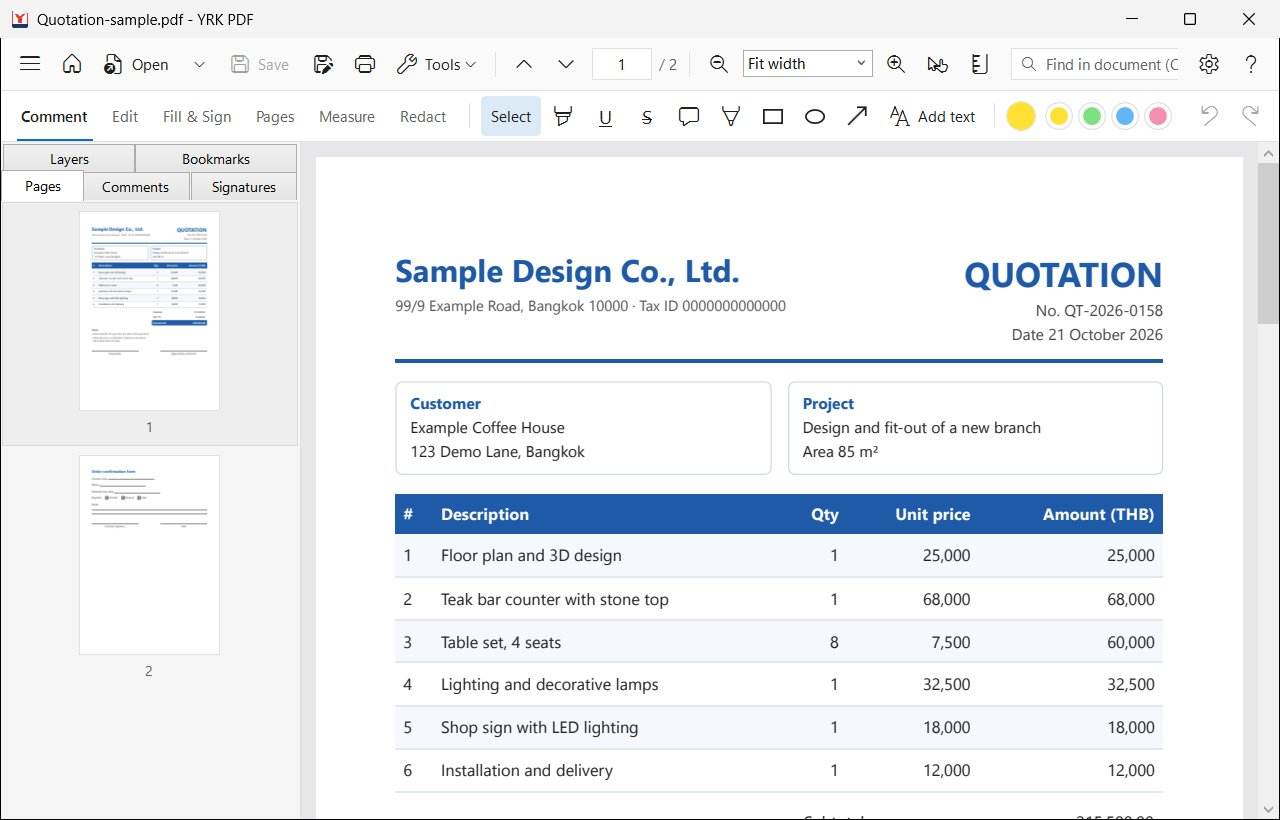
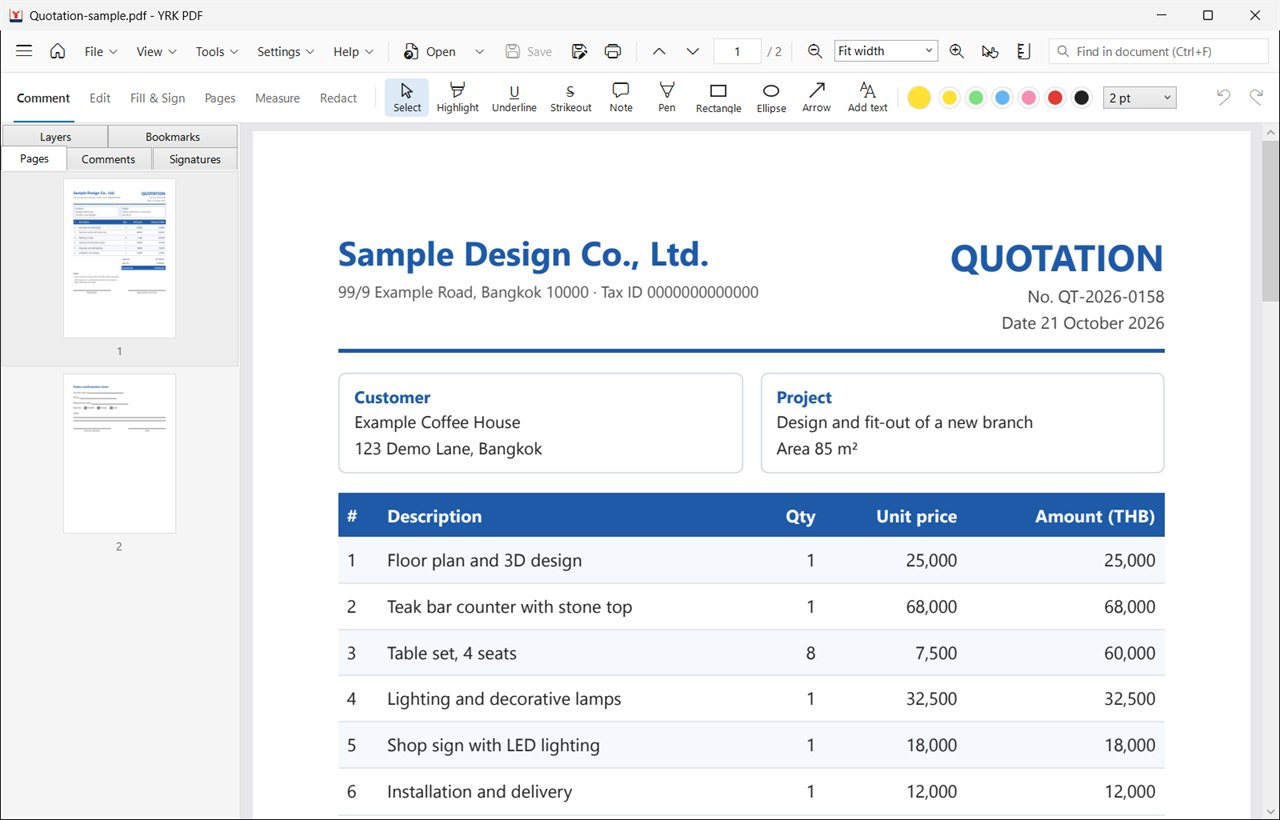
Download page: screenshots of the current version
The main window, the start page and the drawing pictures, in Thai and
English, now show 1.0.9's menu row and named tools. The drawing is a sample
two-storey house plan made for these pictures (no real project), with a
measured room, a length and counted ceiling lights; the drawing card gets a
close-up of it. Badges and descriptions follow the new measurement.

diff --git a/docs/release-repo/site-src/index.html b/docs/release-repo/site-src/index.html
@@ -72,7 +72,7 @@
 
     <div class="float-chip card green c7">
       <span class="ico"><svg aria-hidden="true" width="20" height="20" viewBox="0 0 24 24" fill="none" stroke-width="1.8" stroke-linecap="round" stroke-linejoin="round"><path d="M4 4h16v16H4z"/><path d="M4 12h8V4"/><path d="M12 12v8"/></svg></span>
-      <div class="crop"><img src="{{img:dwg-measure.jpg}}" alt=""><span class="badge">พื้นที่ 25.31 ตร.ม.</span></div>
+      <div class="crop"><img src="{{img:dwg-chip.jpg}}" alt=""><span class="badge">พื้นที่ 16.75 ตร.ม.</span></div>
       <b>ตรวจแบบ .dwg ได้เลย</b><small>วัดระยะ วัดพื้นที่ ไม่ต้องมี AutoCAD</small>
     </div>
     <div class="float-chip green c8"><span class="ico"><svg aria-hidden="true" width="20" height="20" viewBox="0 0 24 24" fill="none" stroke-width="1.8" stroke-linecap="round" stroke-linejoin="round"><path d="m12 3 9 5-9 5-9-5z"/><path d="m3 13 9 5 9-5"/></svg></span>
@@ -126,7 +126,7 @@
 <section class="wrap bento" aria-label="จุดเด่น">
   <figure class="green-box">
     <figcaption><b>เปิดแบบ DWG แล้ววัดได้ทันที</b><span>เปิดปิดเลเยอร์ วัดระยะ วัดพื้นที่ ตามสเกลจริง</span></figcaption>
-    <img src="{{img:dwg-measure.jpg}}" alt="แปลนบ้านจากไฟล์ DWG เปิดในโปรแกรม พร้อมผลวัดระยะและพื้นที่">
+    <img src="{{img:dwg-measure.jpg}}" alt="แปลนบ้านตัวอย่างจากไฟล์ DWG เปิดในโปรแกรม พร้อมผลวัดพื้นที่ วัดระยะ และนับดวงโคม">
   </figure>
   <figure class="orange-box">
     <figcaption><b>“สำเนาถูกต้อง” ในคลิกเดียว</b><span>ไม่ต้องพิมพ์ออกมาเซ็น แล้วสแกนกลับเข้าไปอีก</span></figcaption>

diff --git a/docs/release-repo/site-src/en/index.html b/docs/release-repo/site-src/en/index.html
@@ -71,7 +71,7 @@
 
     <div class="float-chip card green c7">
       <span class="ico"><svg aria-hidden="true" width="20" height="20" viewBox="0 0 24 24" fill="none" stroke-width="1.8" stroke-linecap="round" stroke-linejoin="round"><path d="M4 4h16v16H4z"/><path d="M4 12h8V4"/><path d="M12 12v8"/></svg></span>
-      <div class="crop"><img src="{{img:en/dwg-measure.jpg}}" alt=""><span class="badge">Area 25.31 m²</span></div>
+      <div class="crop"><img src="{{img:en/dwg-chip.jpg}}" alt=""><span class="badge">Area 16.75 m²</span></div>
       <b>Check .dwg drawings</b><small>Measure lengths and areas, no AutoCAD needed</small>
     </div>
     <div class="float-chip green c8"><span class="ico"><svg aria-hidden="true" width="20" height="20" viewBox="0 0 24 24" fill="none" stroke-width="1.8" stroke-linecap="round" stroke-linejoin="round"><path d="m12 3 9 5-9 5-9-5z"/><path d="m3 13 9 5 9-5"/></svg></span>
@@ -125,7 +125,7 @@
 <section class="wrap bento" aria-label="Highlights">
   <figure class="green-box">
     <figcaption><b>Open a DWG and measure right away</b><span>Layers on and off, lengths and areas at the drawing's real scale</span></figcaption>
-    <img src="{{img:en/dwg-measure.jpg}}" alt="A house plan from a DWG file open in the program, with measured lengths and areas">
+    <img src="{{img:en/dwg-measure.jpg}}" alt="A sample house plan from a DWG file open in the program, with a measured area, a length and counted ceiling lights">
   </figure>
   <figure class="orange-box">
     <figcaption><b>A certified copy in one click</b><span>No more printing, signing and scanning it back in</span></figcaption>

diff --git a/docs/release-repo/site-src/style.css b/docs/release-repo/site-src/style.css
@@ -132,7 +132,7 @@
   .c5 { right: 16px; top: 29%; transform: rotate(-2deg); }
   .c6 { right: 4px; top: 48%; transform: rotate(2deg); }
   .c7 { left: 2%; bottom: 8px; width: 260px; transform: rotate(2deg); }
-  .c7 img { object-position: 60% 40%; }
+  .c7 img { object-position: 30% 50%; }
   .c8 { left: 31%; bottom: 44px; width: 186px; transform: rotate(-2deg); }
   .c9 { left: 52%; bottom: 36px; width: 176px; transform: rotate(2deg); }
   .c10 { right: 2%; bottom: 8px; width: 220px; transform: rotate(-2deg); }
